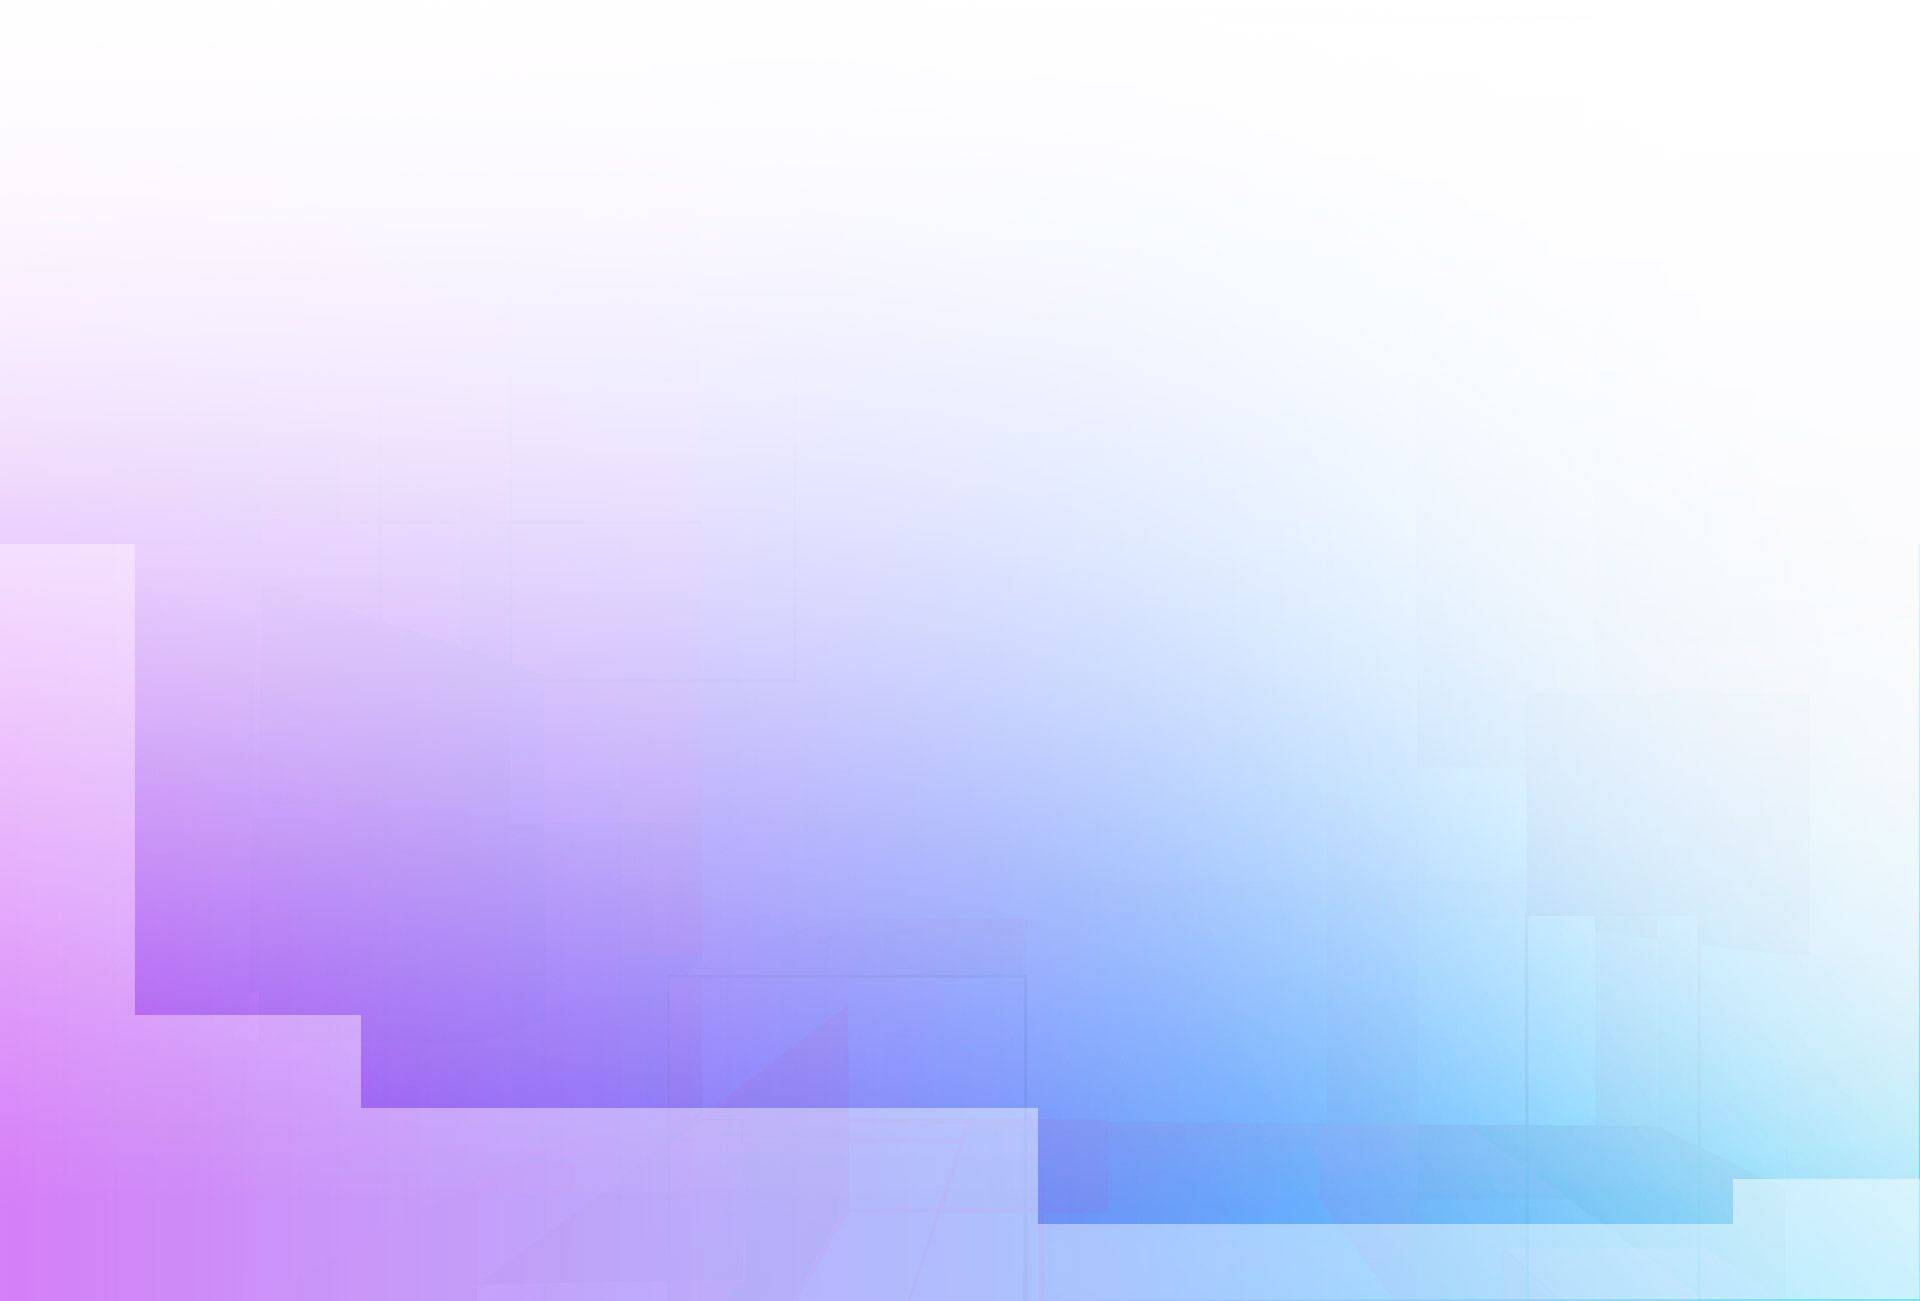
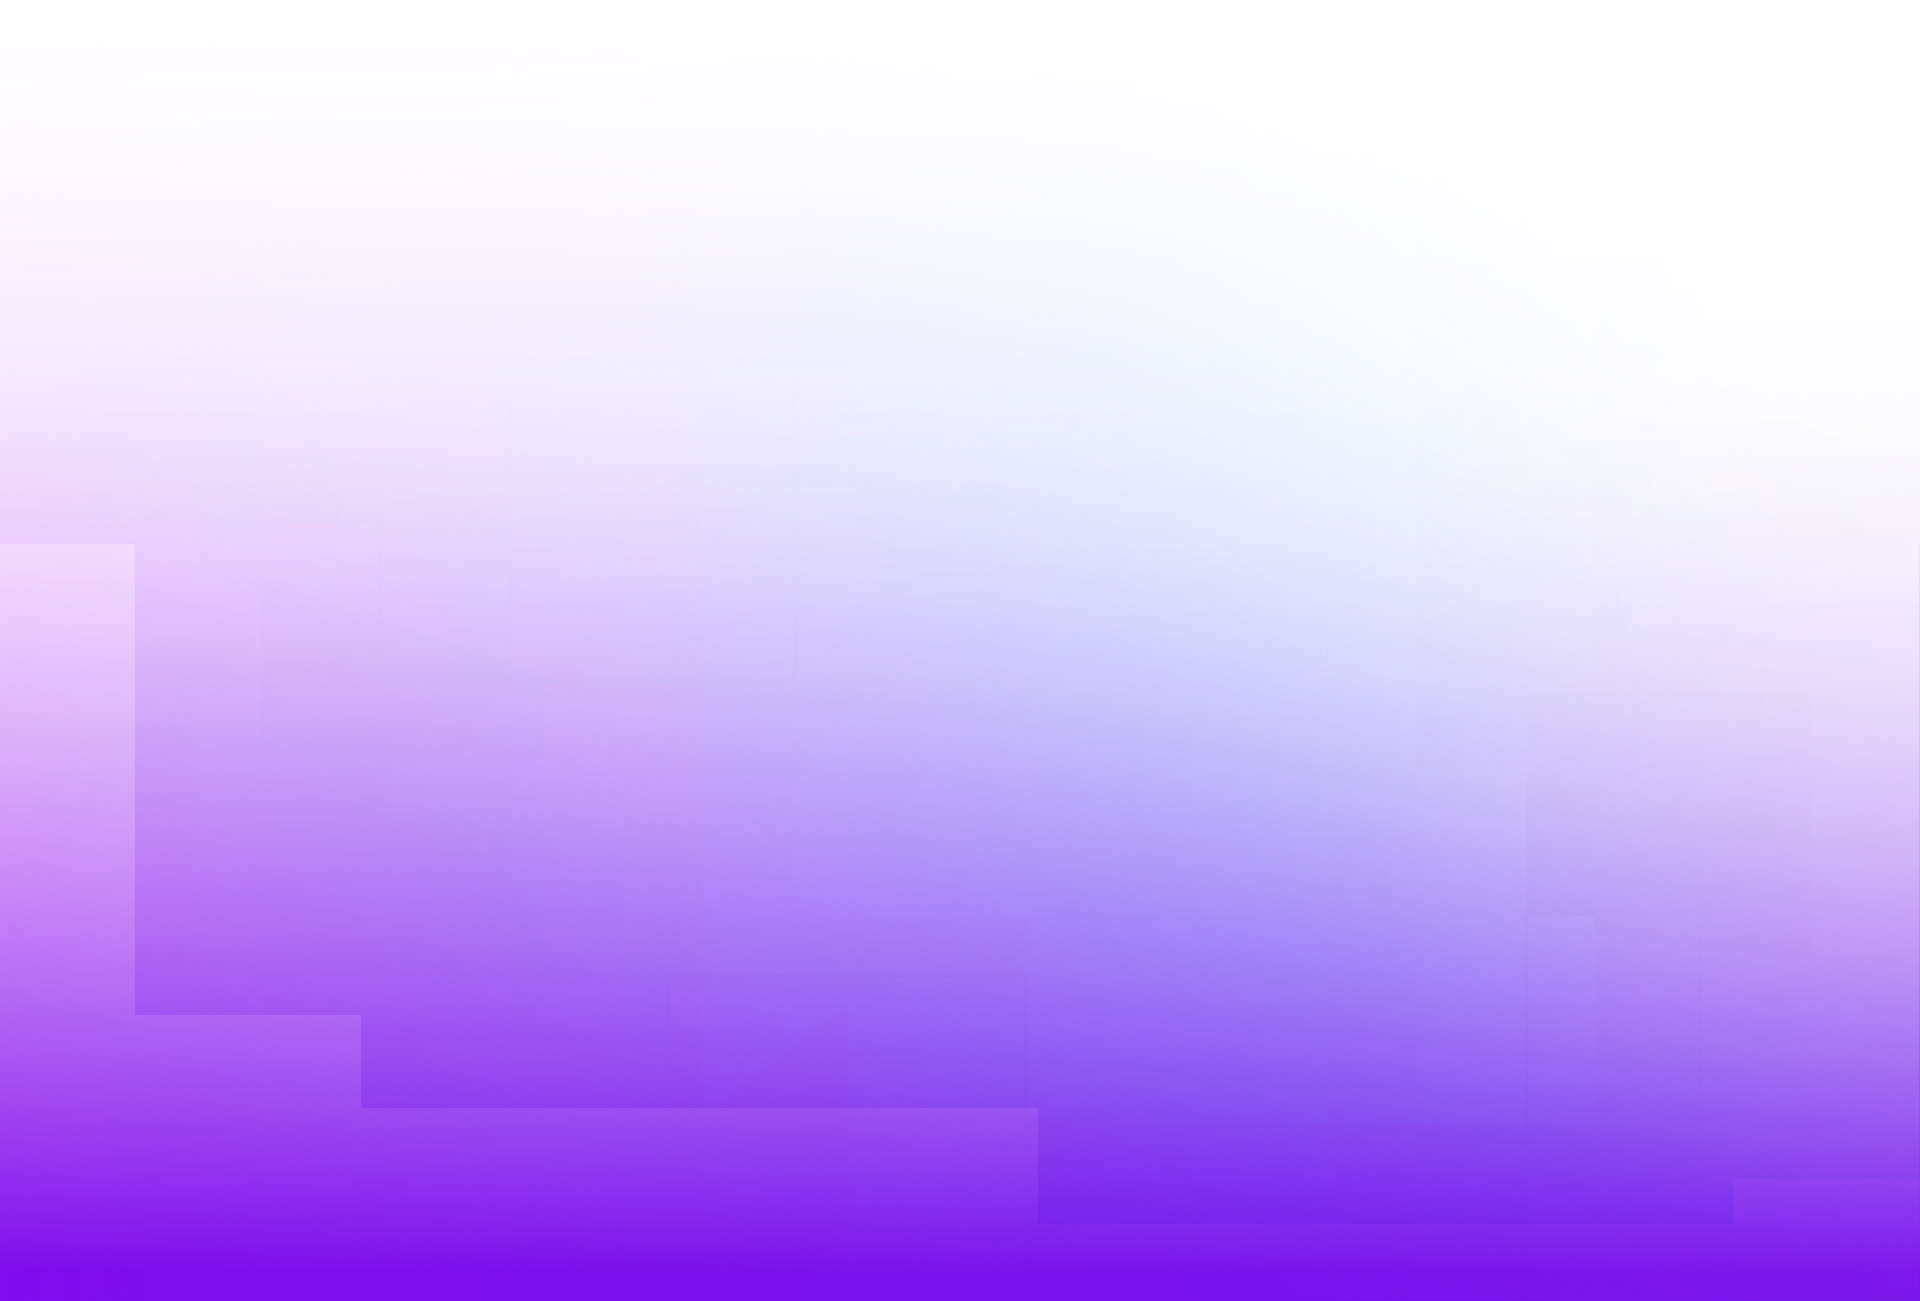
mudanças no home

diff --git a/index.html b/index.html
@@ -198,9 +198,9 @@
                                     <div class="xb-item--holder">
                                         <div class="xb-item--icon"><img src="assets/img/icon/da-fea_icon01.svg" alt="">
                                         </div>
-                                        <h3 class="xb-item--title">Dispersed data</h3>
-                                        <p class="xb-item--content">Your data is held in multiple sources, making it
-                                            difficult to get a single view of the truth.</p>
+                                        <h3 class="xb-item--title">Sites
+                                            Personalizados</h3>
+                                        <p class="xb-item--content">Exclusivos e adaptados às suas necessidades.</p>
                                     </div>
                                 </div>
                             </div>
@@ -209,9 +209,10 @@
                                     <div class="xb-item--holder">
                                         <div class="xb-item--icon"><img src="assets/img/icon/da-fea_icon02.svg" alt="">
                                         </div>
-                                        <h3 class="xb-item--title">Skills shortage</h3>
-                                        <p class="xb-item--content">You struggle to get data into an accessible format
-                                            and act on generated insights.</p>
+                                        <h3 class="xb-item--title">SEO
+                                            Avançado</h3>
+                                        <p class="xb-item--content">Seu site em destaque nos principais buscadores, como
+                                            Google, Bling, entre outros</p>
                                     </div>
                                 </div>
                             </div>
@@ -220,9 +221,10 @@
                                     <div class="xb-item--holder">
                                         <div class="xb-item--icon"><img src="assets/img/icon/da-fea_icon03.svg" alt="">
                                         </div>
-                                        <h3 class="xb-item--title">Business adoption</h3>
-                                        <p class="xb-item--content">Senior stakeholders don’t understand the untapped
-                                            value that data and AI can bring.</p>
+                                        <h3 class="xb-item--title">Foco no
+                                            Usuário</h3>
+                                        <p class="xb-item--content">Experiências imersivas e intuitivas para seus
+                                            visitantes.</p>
                                     </div>
                                 </div>
                             </div>
@@ -231,9 +233,10 @@
                                     <div class="xb-item--holder">
                                         <div class="xb-item--icon"><img src="assets/img/icon/da-fea_icon04.svg" alt="">
                                         </div>
-                                        <h3 class="xb-item--title">Solution design</h3>
-                                        <p class="xb-item--content">You have the insights but can’t grasp the technology
-                                            to drive the business forward.</p>
+                                        <h3 class="xb-item--title">Desempenho
+                                            e Velocidade</h3>
+                                        <p class="xb-item--content">Sites rápidos e eficientes, sem comprometer
+                                            qualidade.</p>
                                     </div>
                                 </div>
                             </div>
@@ -415,12 +418,13 @@
                         </div>
                         <div class="xb-btn text-center mt-70">
                             <a href="#!" class="thm-btn thm-btn--fill_icon thm-btn--data thm-btn--data-strock_white">
-                                <div class="xb-item--hidden"><span class="xb-item--hidden-text">Fale Conosco</span>
+                                <div class="xb-item--hidden"><span class="xb-item--hidden-text">Outros projetos
+                                    </span>
                                 </div>
                                 <div class="xb-item--holder">
-                                    <span class="xb-item--text xb-item--text1">Fale Conosco</span>
+                                    <span class="xb-item--text xb-item--text1">Outros projetos</span>
                                     <div class="xb-item--icon"><i class="fal fa-plus"></i></div>
-                                    <span class="xb-item--text xb-item--text2">Fale Conosco</span>
+                                    <span class="xb-item--text xb-item--text2">Outros projetos</span>
                                 </div>
                             </a>
                         </div>
@@ -432,7 +436,7 @@
             <section class="faq pt-150 pb-115" data-bg-color="#f4f5fc">
                 <div class="container">
                     <div class="da-sec-titlte text-center mb-30">
-                        <h2 class="title">Your Questions, Answered!</h2>
+                        <h2 class="title">Dúvidas frequentes</h2>
                     </div>
                     <div class="row">
                         <div class="col-lg-6">

diff --git a/assets/css/main.css b/assets/css/main.css
@@ -64,7 +64,7 @@
   --color-primary-three-rgb: 154, 68, 151;
   --color-primary-four: #ff6a00;
   --color-primary-four-rgb: 255, 106, 0;
-  --color-primary-five: #1438bc;
+  --color-primary-five: #7300E9;
   --color-primary-five-rgb: 20, 56, 188;
   --color-heading: #111112;
   --color-heading-two: #010c25;
@@ -3953,7 +3953,7 @@ body[data-aos-easing=ease] [data-aos] {
   -ms-border-radius: 40px;
   -o-border-radius: 40px;
   box-shadow: 0 4px 24px -1px rgba(28, 9, 61, 0.2);
-  background: linear-gradient(126deg, rgba(151, 12, 12, 0.2) 0%, rgba(54, 44, 44, 0.2) 100%);
+  background: linear-gradient(126deg, rgba(255, 255, 255, 0.2) 0%, rgba(54, 44, 44, 0.2) 100%);
 }
 
 @media (max-width: 1199px) {
@@ -4203,6 +4203,7 @@ body[data-aos-easing=ease] [data-aos] {
 }
 
 .header-style-three .main-menu__wrap .main-menu>ul>li.menu-item-has-children>a span::after {
+  content: "+";
   display: inline-block;
   padding-left: 6px;
 }
@@ -4842,6 +4843,7 @@ body[data-aos-easing=ease] [data-aos] {
 }
 
 .main-menu ul li.menu-item-has-children>a span::after {
+  content: "+";
   display: inline-block;
   padding-left: 6px;
 }
@@ -5832,7 +5834,7 @@ body[data-aos-easing=ease] [data-aos] {
 .fanfact-item:hover .xb-item--content,
 .fanfact-item:hover .xb-item--number,
 .fanfact-item:hover .xb-item--text {
-  color: #0073B1;
+  color: var(--color-white);
 }
 
 .fanfact-item:hover .fanfact-icon .icon {
@@ -18972,7 +18974,7 @@ body .mfp-wrap .mfp-container .mfp-content .mfp-close:hover::after {
 }
 
 .thm-btn--data_blue {
-  background: #1438bc;
+  background-color: #7300E9;
 }
 
 .thm-btn--data_blue .xb-item--text {
@@ -19005,7 +19007,7 @@ body .mfp-wrap .mfp-container .mfp-content .mfp-close:hover::after {
 }
 
 .thm-btn--data-strock_white:hover .xb-item--text {
-  color: #1438bc;
+  color: #7300E9;
 }
 
 /* Bnt principal do Header */
